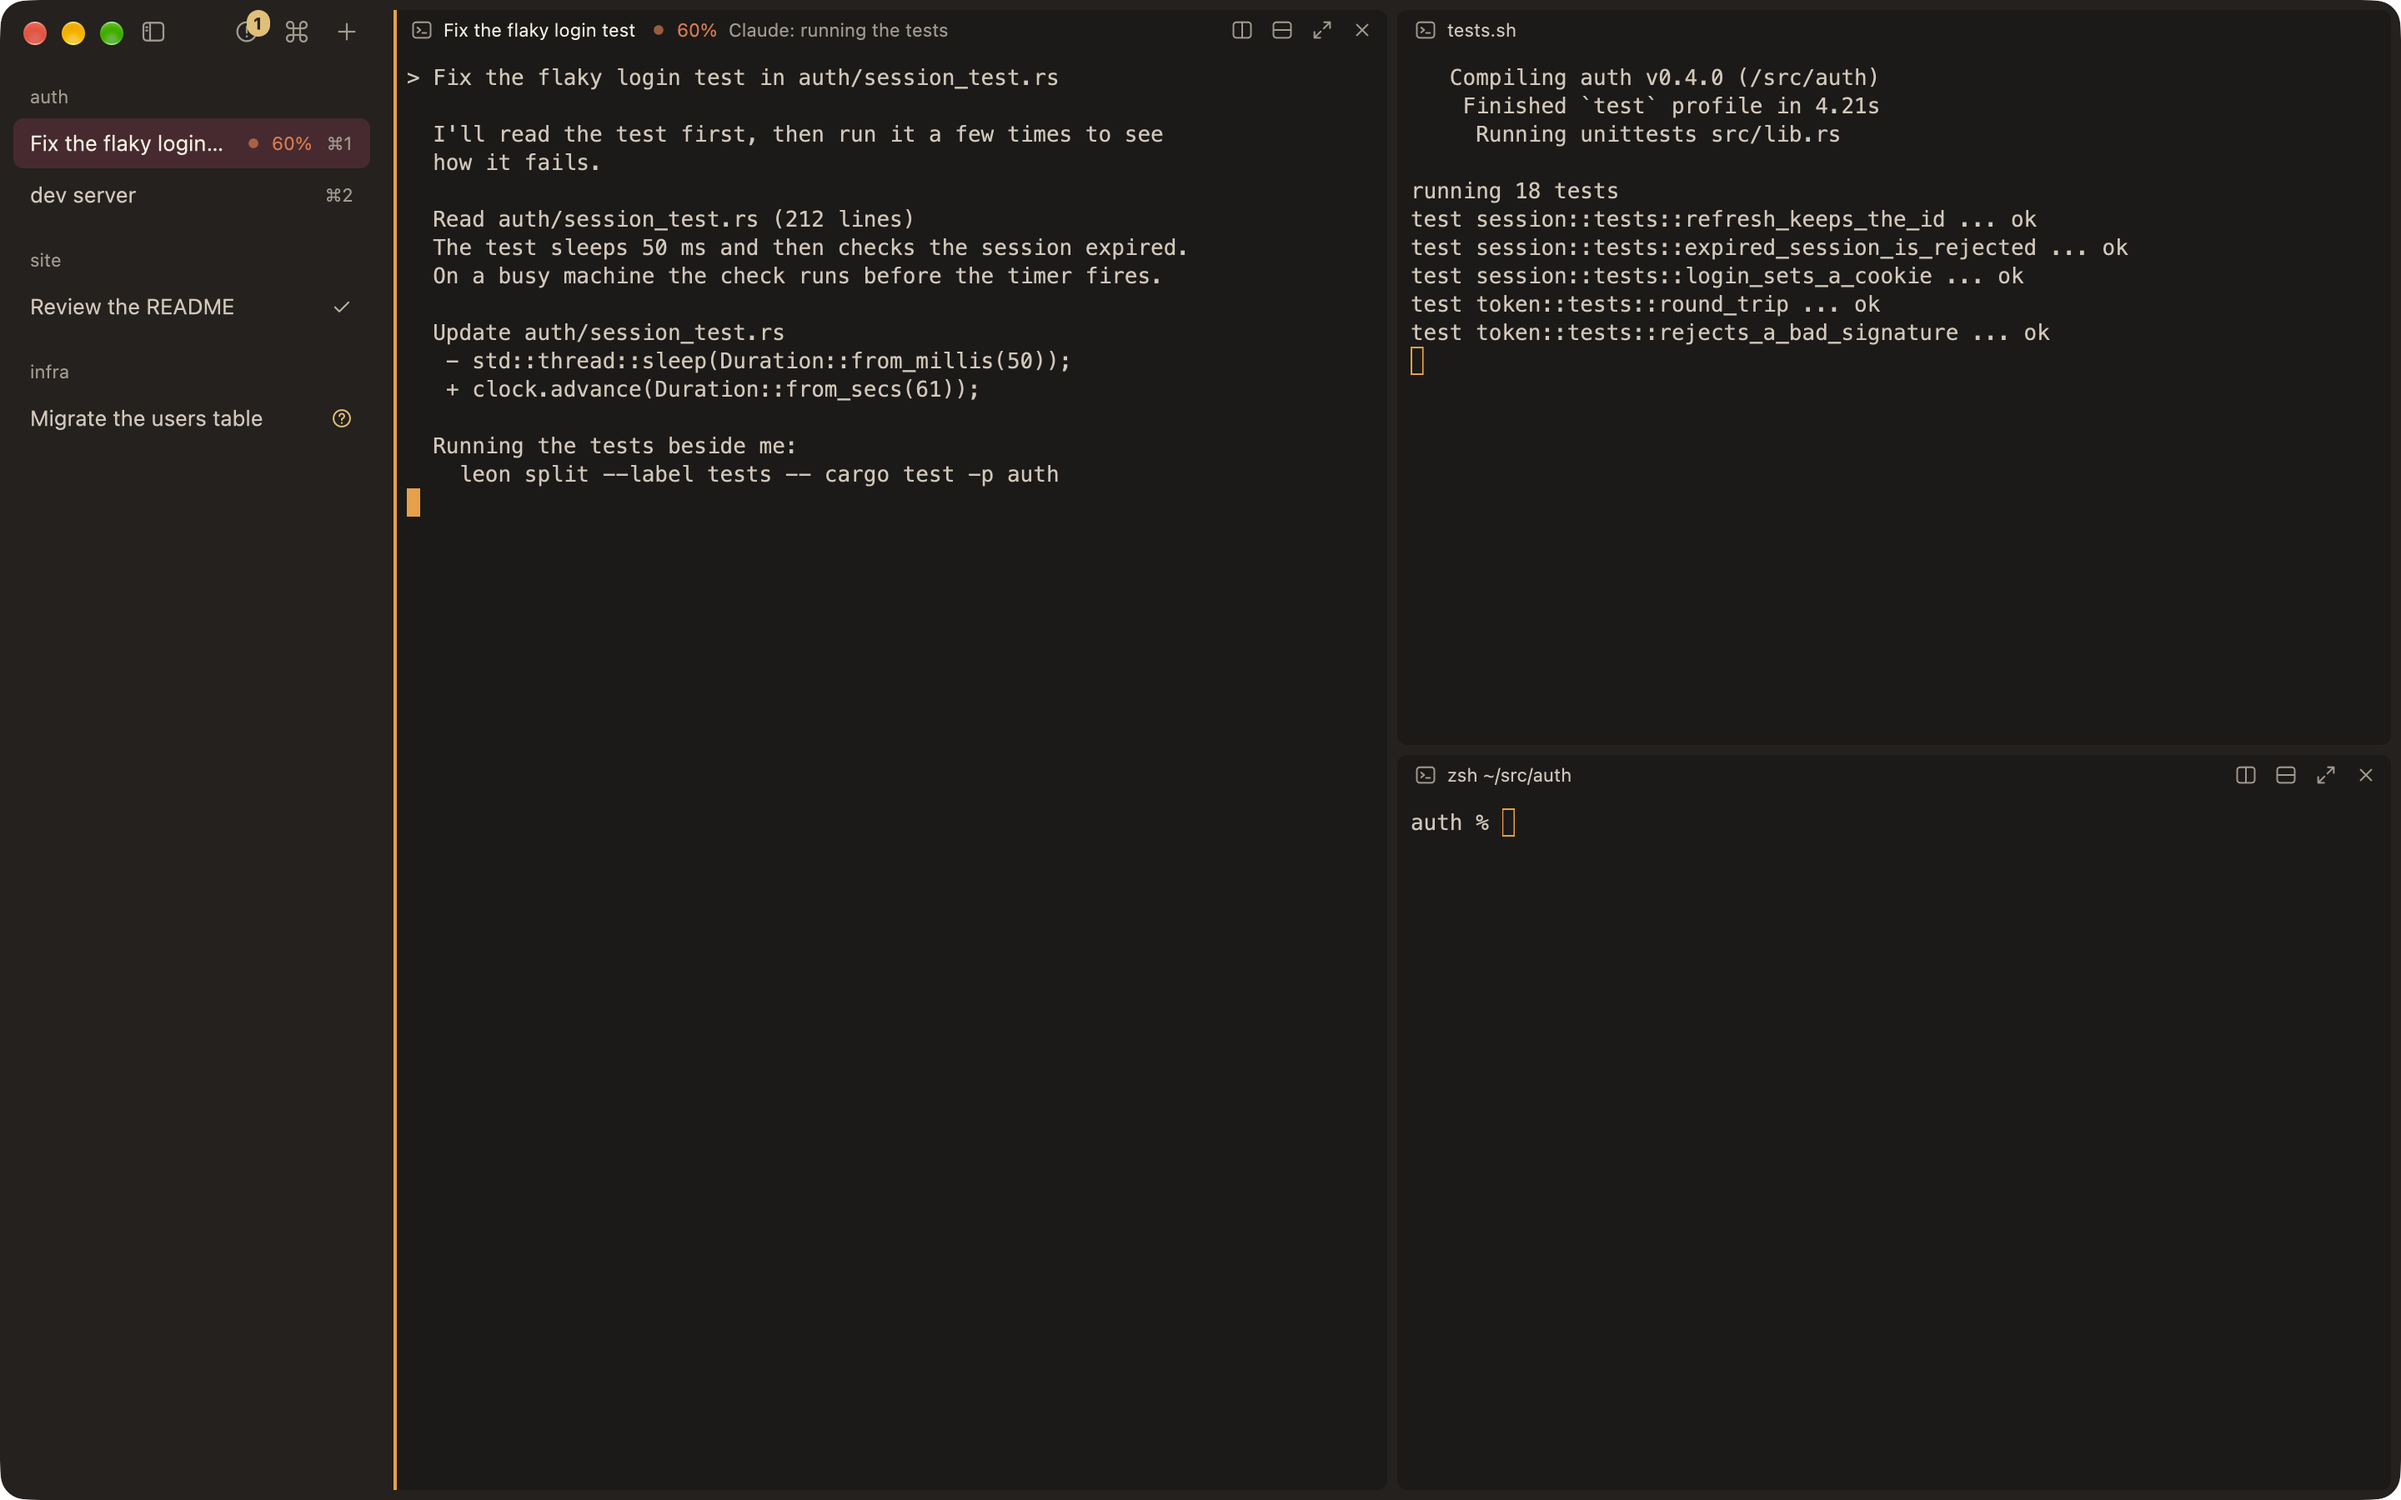
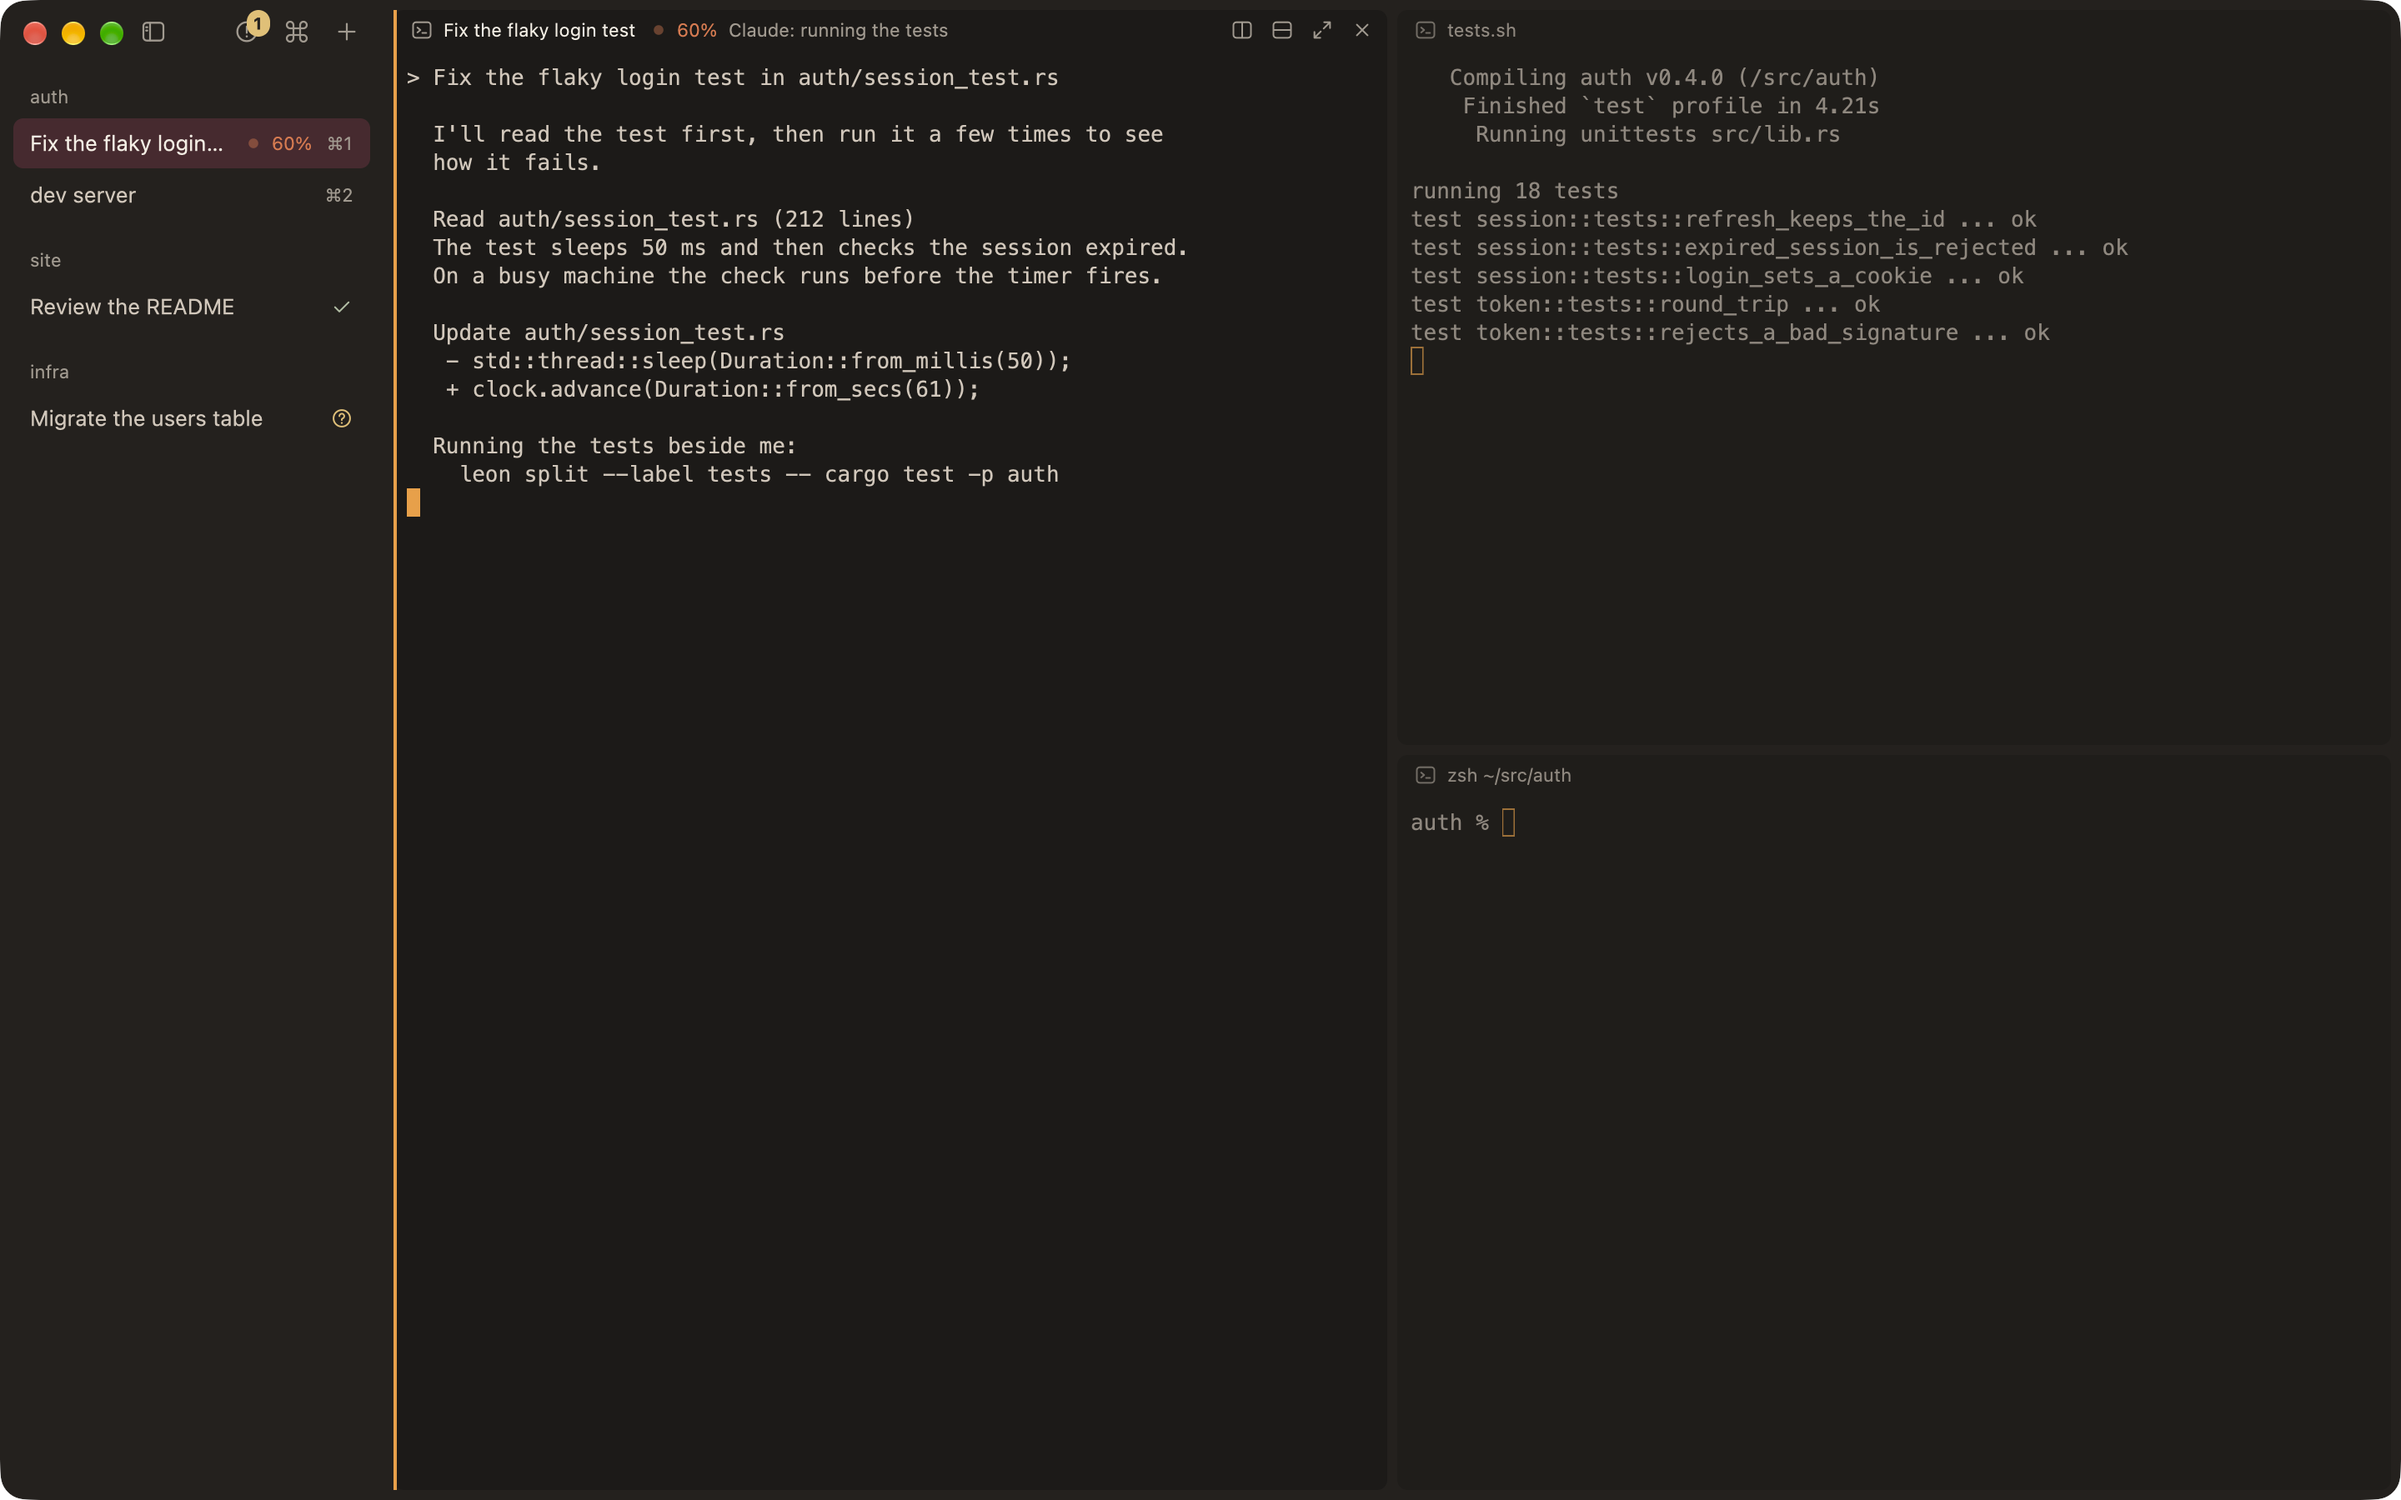
docs: the fade of unfocused panes, in the README and the architecture
- README ("Know what needs you"): what fades, what never does, and the setting.
- docs/architecture/attention.md: how the app fades, what it leaves out and why, the
  transition, the frames it asks for, and the default.
- docs/images/app-status.png retaken with scripts/demo-shots.sh: the same neutral scene,
  now with the two unfocused panes faded. The other pictures are not retaken yet.

Changed region(s): [[0.5938, 0.1244, 0.8438, 0.2178], [0.625, 0.0311, 0.7812, 0.0933], [0.75, 0.2178, 0.8125, 0.2489]]

diff --git a/crates/leon/tests/fade_docs.rs b/crates/leon/tests/fade_docs.rs
@@ -1,0 +1,22 @@
+//! The fade and its setting are documented where a user or an integrator would look.
+
+#[test]
+fn the_fade_is_documented() {
+    let lua = include_str!("../../../docs/lua.md");
+    assert!(lua.contains("`fade_inactive_panes`"), "docs/lua.md lists the setting");
+    assert!(lua.contains("leon.set(\"fade_inactive_panes\", 0)"), "docs/lua.md shows how to turn the fade off");
+    let cli = include_str!("../../../docs/cli/settings.md");
+    assert!(cli.contains("fade_inactive_panes"), "docs/cli/settings.md names the key config get/set take");
+    let changelog = include_str!("../../../CHANGELOG.md");
+    assert!(changelog.contains("fade_inactive_panes"), "CHANGELOG.md has the entry");
+    assert!(changelog.contains(leon_server::API_VERSION), "CHANGELOG.md names the API version");
+    let minor: u64 = leon_server::API_VERSION.split('.').nth(1).unwrap().parse().unwrap();
+    assert!(minor >= 6, "a new field on server.settings is a minor bump");
+    let api = include_str!("../../../docs/api.md");
+    assert!(api.contains("fade_inactive_panes"), "docs/api.md is regenerated");
+    assert!(include_str!("../../../docs/integrators.md").contains(leon_server::API_VERSION), "docs/integrators.md");
+    let readme = include_str!("../../../README.md");
+    assert!(readme.contains("fade_inactive_panes"), "the README says the fade can be set or turned off");
+    let arch = include_str!("../../../docs/architecture/attention.md");
+    assert!(arch.contains("fade_inactive_panes"), "the architecture says how the app fades panes");
+}

diff --git a/docs/architecture/attention.md b/docs/architecture/attention.md
@@ -35,6 +35,22 @@ of [the architecture](../architecture.md).
   needs, so a bare `leon app` binary logs once and posts nothing. The center's delegate queues a
   clicked notice's host label, session and block and wakes every window's poll; the window that knows the pane goes there (the folded
   notice opens Activity).
+- **Fading the panes without the focus.** With two or more panes on screen the app draws every
+  pane but the focused one (`floats::target`, so a focused float or drawer counts) blended toward
+  the window's background, header included: `fade::theme` moves each colour of the theme toward
+  `chrome`, and `fade::frame` does the same to the colours of the pane's screen before it is
+  painted. The four status colours are left out, so an indicator in a faded pane keeps its
+  colour, and a pane whose own indicator is blocked, error or done (what needs the user, above;
+  done and error last only until the user arrives at the pane) is not faded at all. A pane alone
+  on screen is not faded, nor is anything while the focus is on a pane that isn't shown. The
+  sidebar, the tabs and the titlebar are not panes and never fade, and the fade doesn't read
+  whether the window is the key window. A pane's fade moves to a new target from where it is,
+  over a drawer's slide (`floats::SLIDE`, 120 ms, eased out; at once with Reduce Motion), so a
+  focus that moves on mid-fade never jumps; a pane seen for the first time is drawn in place.
+  The poll redraws only while a fade is on its way (`Workspace::fading`), so an idle app still
+  draws nothing. `leon.set("fade_inactive_panes", N)` is the strength, 0 (off) to 0.8; the
+  default, 0.35, is the strongest step at which body text keeps 4.5:1 on leon-dark and
+  leon-light. The app reads it from `server.settings`. `leon attach` doesn't fade.
 - **`leon notify`.** `dev.leon.terminal.report_status {state, title, msg}` (experimental) builds an
   OSC 7501 report (title and msg base64) and runs it through the same parser and store as PTY
   output, so every limit applies; text the parser would drop is refused (400) instead. `leon notify`

diff --git a/README.md b/README.md
@@ -249,6 +249,13 @@ The tab's row gets a symbol, and the pane's header gets the symbol with the prog
 
 ![The leon app: three sessions in the sidebar with their tabs as rows, a tab split into three panes, and an agent's progress on its tab row and its pane header](docs/images/app-status.png)
 
+With more than one pane in a tab, the panes you aren't in are drawn a little faded, so your eye
+stays on the focused one; the fade follows the focus over 120 ms (at once with Reduce Motion).
+What you are waiting for is never faded: a status symbol keeps its colour, and a pane that is
+blocked, has failed, or finished since you last looked stays at full strength. In init.lua,
+`leon.set("fade_inactive_panes", 0)` turns the fade off and a number up to 0.8 sets its strength
+(0.35 by default).
+
 ⌘K switches to any session, tab or block on any host, the most recent first, and ⌘⇧A lists what
 needs you: blocked first (with what it is waiting for), then errors, finished runs you haven't
 looked at, and work in progress. The toolbar button for it shows how many blocks are blocked, and so

diff --git a/docs/architecture.md b/docs/architecture.md
@@ -66,7 +66,7 @@ The decisions, in six parts:
   scrollback, selection, find, links and mouse reporting, `leon attach`, the app keymap and look,
   and the agent skill.
 - [Switching and attention](architecture/attention.md): the session switcher, Activity, the
-  badges, notifications and `leon notify`.
+  badges, notifications, the fade of the panes without the focus, and `leon notify`.
 - [Repeat keys, copy mode and hints](architecture/keys-copy-hints.md): repeatable bindings in the
   app and `leon attach`, the app's copy mode and hints, and why `leon attach` has no copy mode.
 - [Floats and drawers in the app](architecture/floats.md): the shared client's overlays, where
